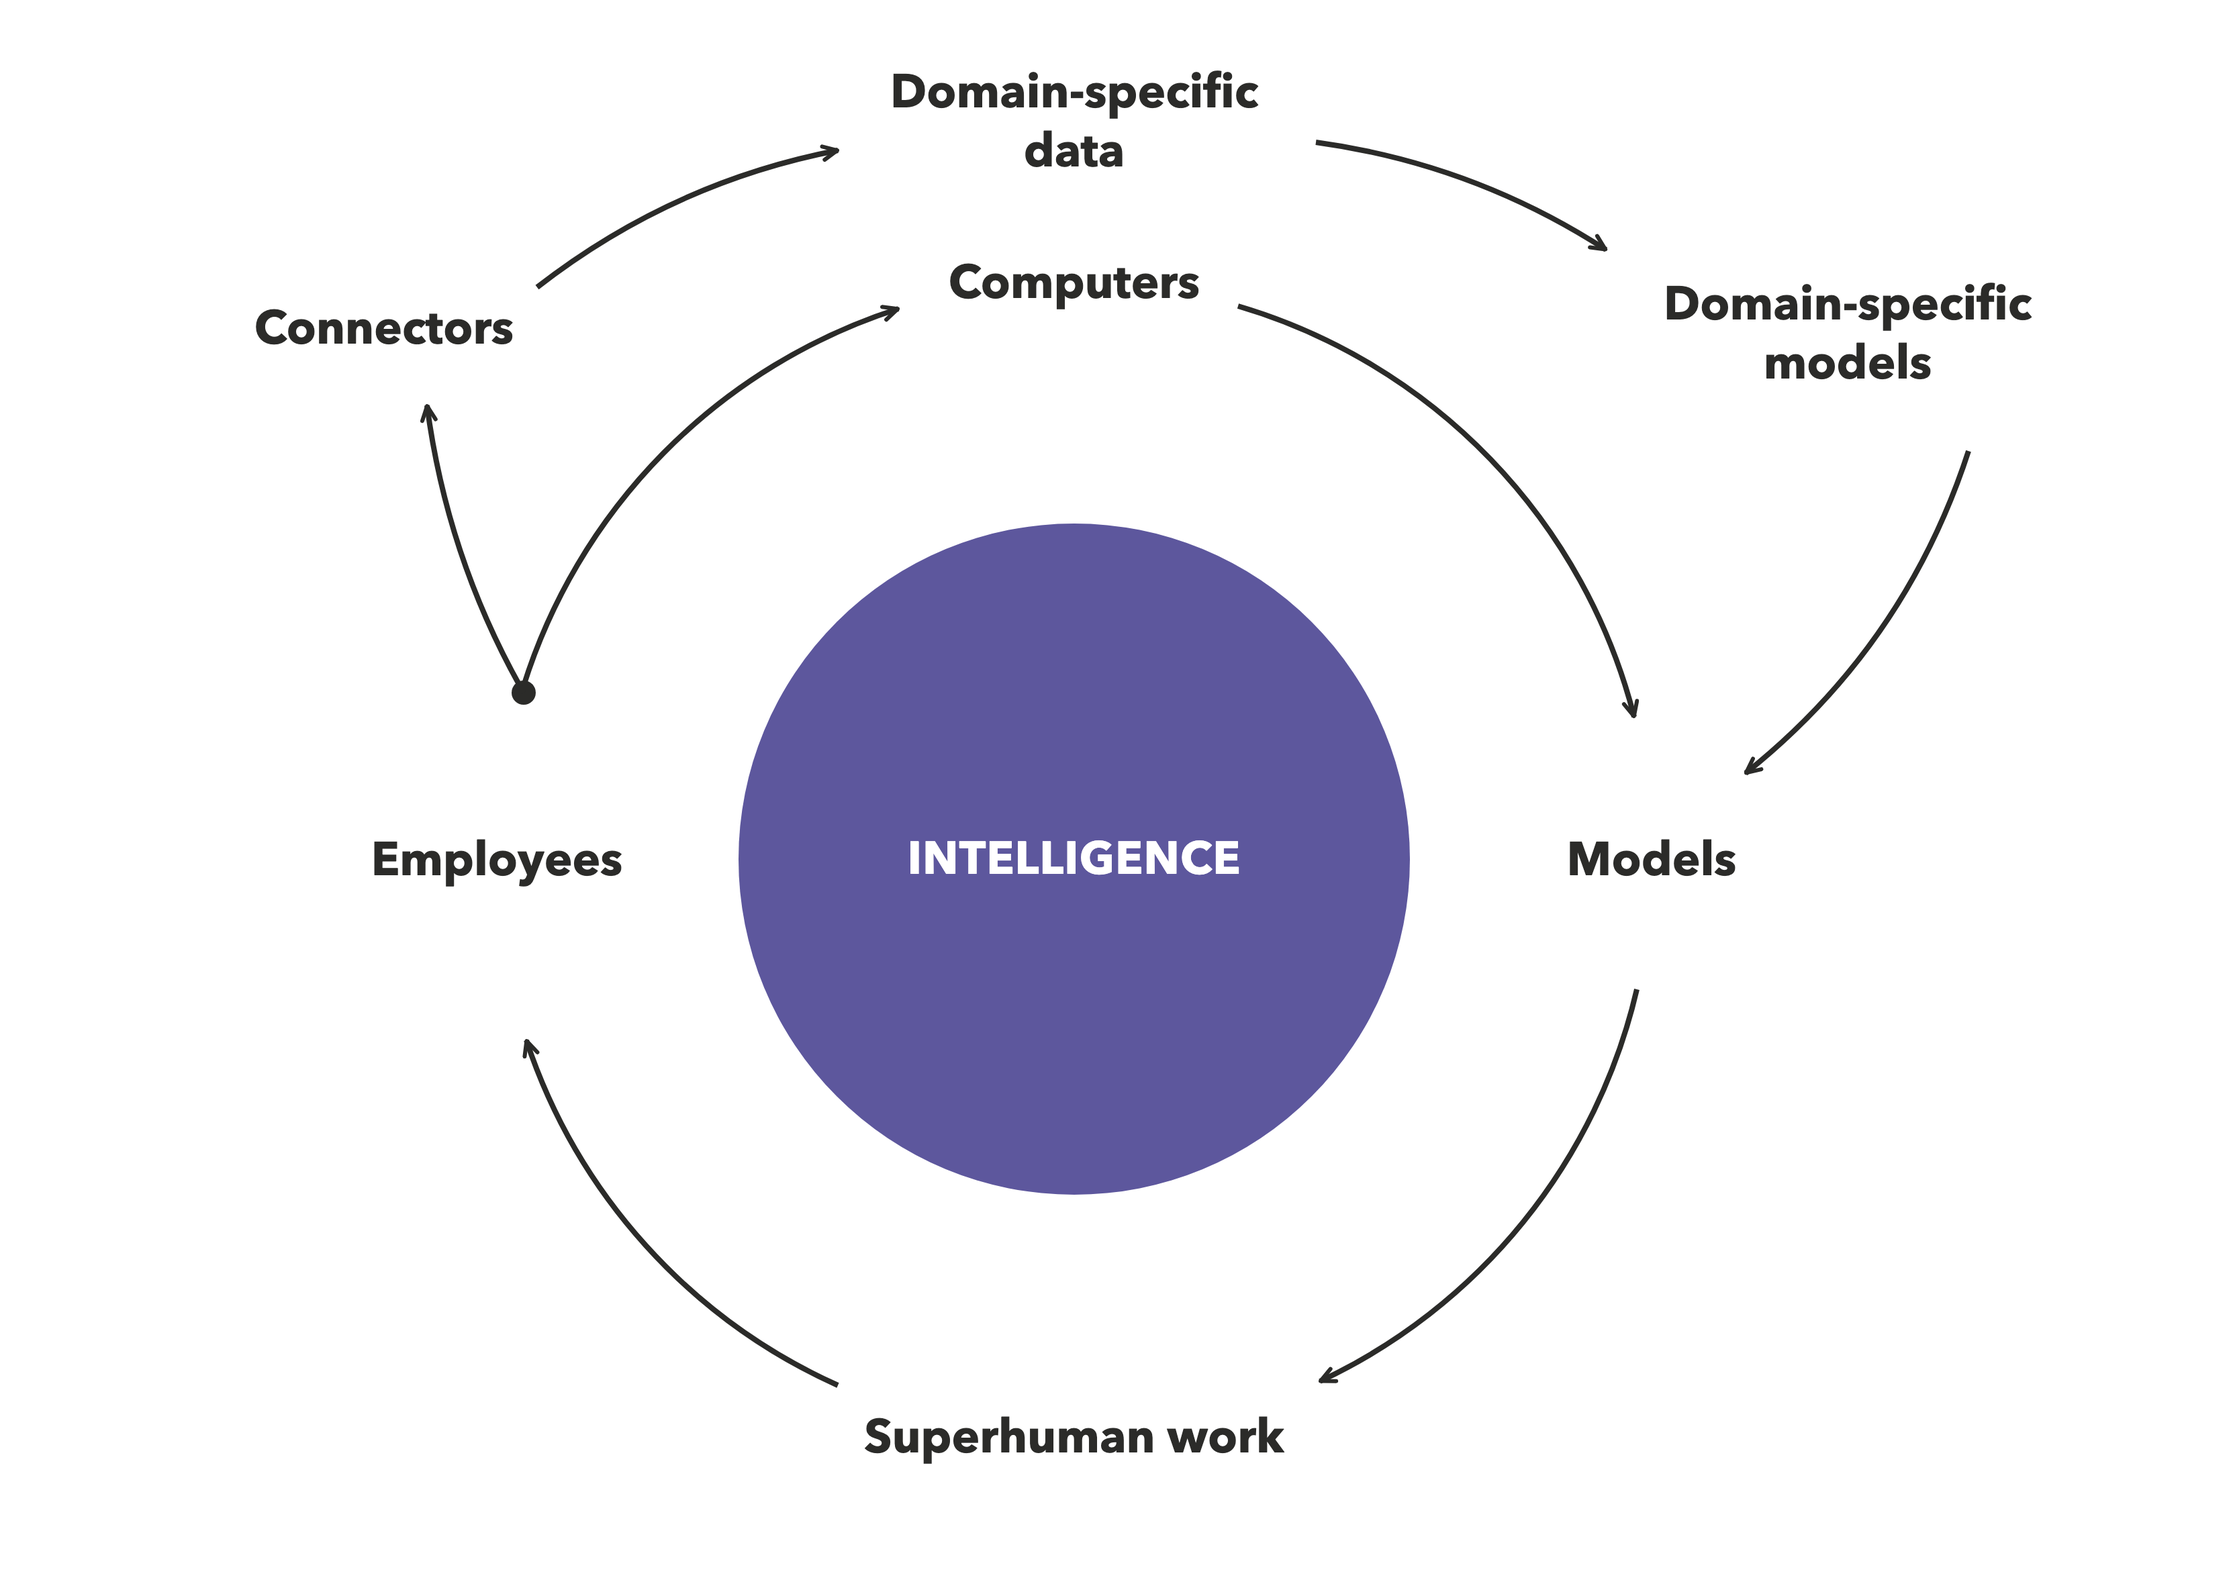
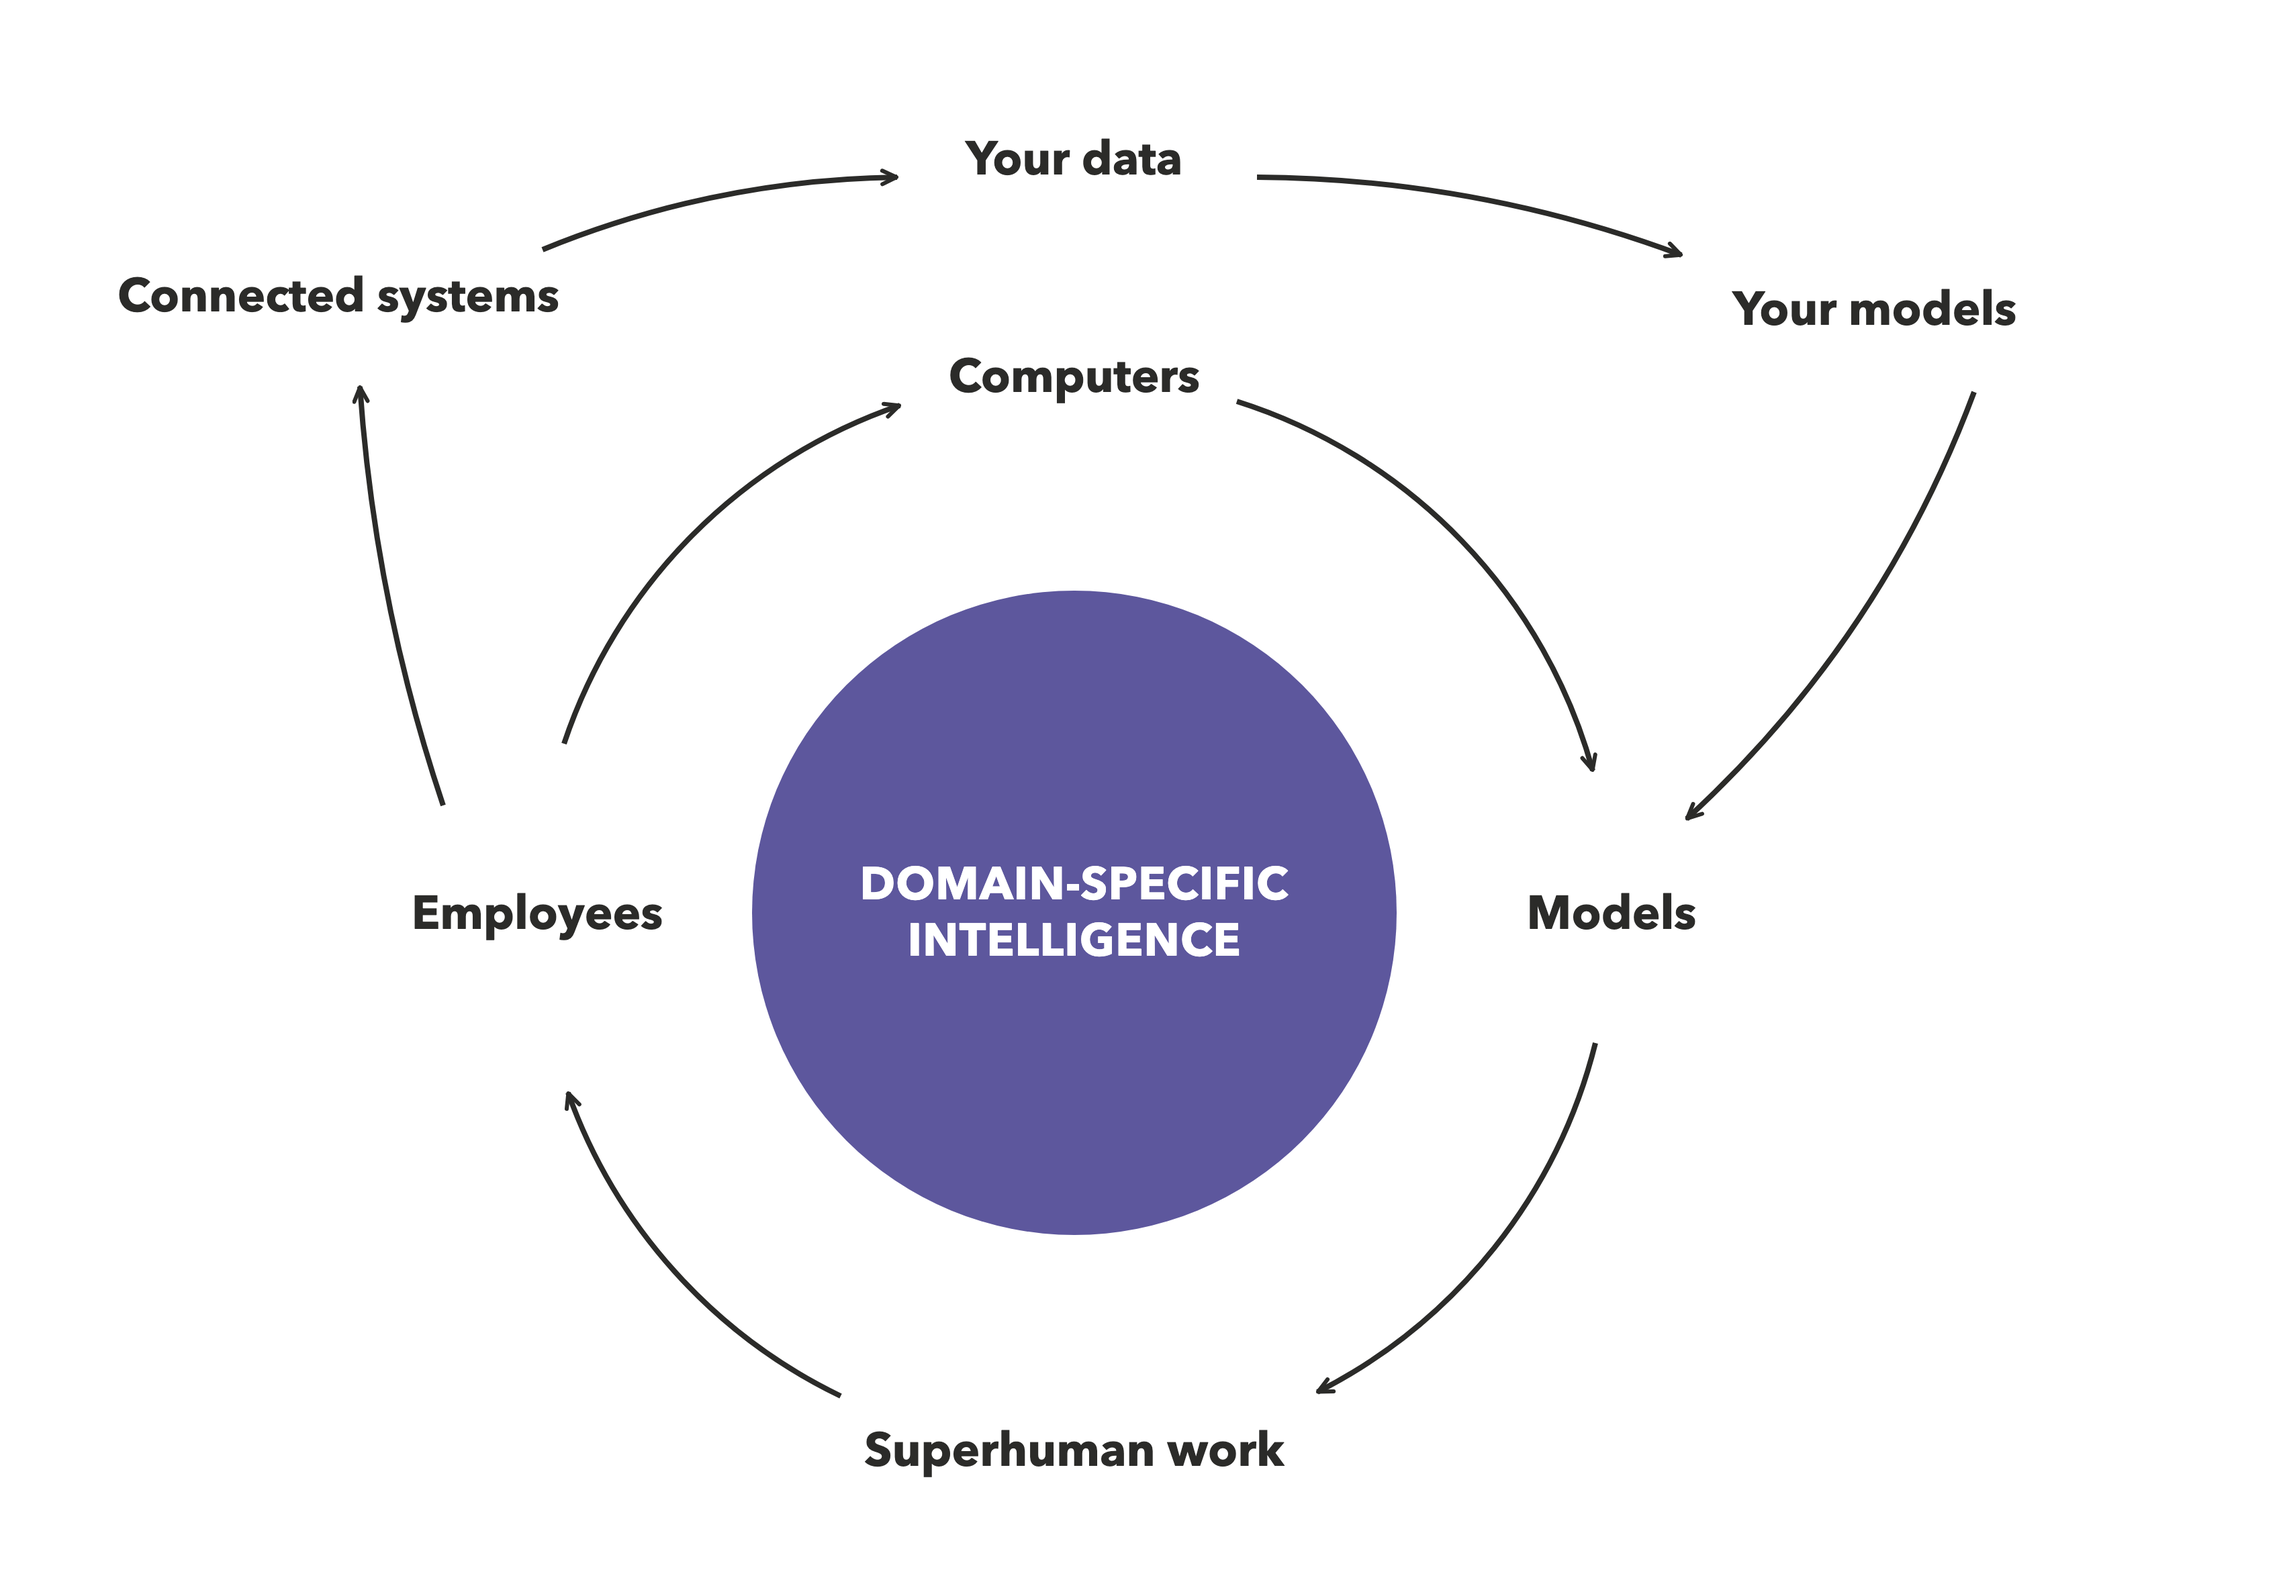
feat(docs): domain-specific intelligence, in the hub and in the opening
The words on the wheel, reviewed one at a time against the test the reference
passes: every station is a noun a reader already knows.

The hub is DOMAIN-SPECIFIC INTELLIGENCE now. It is the asset that actually
compounds — general intelligence you rent, and so does everyone else, so it
accumulates for nobody. And with the qualifier in the centre the two stations
that carried it can drop it: "your data" and "your models" say the same thing in
words nobody has to decode. Three uses of "domain-specific" made the drawing
look like it knew one adjective.

"Connectors" is gone for "Connected systems". It was the only word on the page
that came from integration vocabulary rather than from English, and what it
means — the grid reaching the systems your work already lives in — is two plain
words away.

"Superhuman work" stays. It was raised as a candidate for "Intelligence", but
that station is the reference's Customer Experience: the benefit to the human.
Renaming it would duplicate the hub and delete the only station that says why
any of this matters to a person.

Also: the branch and the rim now leave as two separate arrows with air between
them rather than from a shared dot, which read as a knot at this weight; and the
second loop is held a clear band off the rim, because two curves running close
together read as one thick curve.

The opening gains two paragraphs on why you would train anything at all — the
[…]

diff --git a/train/mlx/grpo_hello.py b/train/mlx/grpo_hello.py
@@ -225,23 +225,35 @@ def main() -> int:
     with log_path.open("a", encoding="utf-8") as fh:
         fh.write(json.dumps(history[0]) + "\n")
 
+    # Where the time actually goes. The premise of putting training on a grid is that sampling
+    # dominates and sampling is the part that fans out; that split is quoted from the field
+    # (README section 3) rather than measured here, and never on this backend at all. Timing the
+    # two phases costs nothing and turns the claim into something each run reports about itself.
+    spent = {"sample_s": 0.0, "update_s": 0.0, "eval_s": 0.0}
+
     for step in range(1, args.steps + 1):
         user_text, target = make_task(rng, args.min_words, args.max_words)
         prompt_ids = encode_prompt(user_text)
         completions, rewards = [], []
+        t0 = time.time()
         for _ in range(args.group_size):
             ids, lps, text = sample(prompt_ids)
             completions.append((ids, lps))
             rewards.append(reward(text, target))
+        spent["sample_s"] += time.time() - t0
         advantages = group_advantages(rewards)
         mean_reward = sum(rewards) / len(rewards)
         record = {"step": step, "reward_mean": round(mean_reward, 4)}
         if any(advantages):
+            t0 = time.time()
             record["loss"] = round(train_step(prompt_ids, completions, advantages), 5)
+            spent["update_s"] += time.time() - t0
         else:
             record["skipped"] = "no reward spread in group"
         if step % args.eval_every == 0 or step == args.steps:
+            t0 = time.time()
             record["eval"] = round(evaluate(), 4)
+            spent["eval_s"] += time.time() - t0
             print(
                 f"step {step:>3}  reward {mean_reward:.3f}  eval {record['eval']:.3f}  "
                 f"({time.time() - started:.0f}s)"
@@ -260,6 +272,13 @@ def main() -> int:
                 "baseline_eval": round(baseline, 4),
                 "final_eval": round(final, 4),
                 "minutes": round((time.time() - started) / 60, 1),
+                "sample_s": round(spent["sample_s"], 1),
+                "update_s": round(spent["update_s"], 1),
+                "eval_s": round(spent["eval_s"], 1),
+                # Of the work that a grid could split, how much is the part that fans out.
+                "sampling_share": round(
+                    spent["sample_s"] / max(spent["sample_s"] + spent["update_s"], 1e-9), 3
+                ),
             },
             indent=2,
         )
@@ -267,6 +286,12 @@ def main() -> int:
         encoding="utf-8",
     )
     print(f"\nBaseline {baseline:.3f} -> final {final:.3f}   artifacts: {run_dir}")
+    print(
+        f"time: sampling {spent['sample_s']:.0f}s · update {spent['update_s']:.0f}s · "
+        f"eval {spent['eval_s']:.0f}s  ->  sampling is "
+        f"{100 * spent['sample_s'] / max(spent['sample_s'] + spent['update_s'], 1e-9):.0f}% "
+        f"of the splittable work"
+    )
     # Ceiling-aware verdict: a strong base model can leave <0.15 of headroom; near-perfect
     # final performance is a pass even when the delta is small.
     verdict = (final - baseline >= 0.15) or (final >= 0.95 and final > baseline)

diff --git a/docs/build_figures.py b/docs/build_figures.py
@@ -235,8 +235,8 @@ f.write(f"{OUT}/train-architecture.svg")
 #   selection -> more models          traffic -> more employees
 #   customer experience -> superhuman work
 #   the second loop: connectors -> domain-specific data -> domain-specific models
-f = Fig(1660, 1180)
-CX, CY, R = 800, 640, 430
+f = Fig(1700, 1180)
+CX, CY, R = 800, 680, 400
 INK = LABEL_TEXT
 
 # Nouns, not quantities. The reference says Sellers, Selection, Traffic — never
@@ -247,22 +247,28 @@ f.wheel(CX, CY, R, [
     ("Superhuman work", LABEL_TEXT),
     ("Employees", LABEL_TEXT),
     ("Computers", LABEL_TEXT),
-], hub_r=250, hub_lines=("INTELLIGENCE",), fs=CORE_FS, start=0, arc=INK)
+], hub_r=240, hub_lines=("DOMAIN-SPECIFIC", "INTELLIGENCE"), fs=CORE_FS, start=0,
+   arc=INK)
 
 # The second loop leaves from Employees — they are the ones who connect a system —
-# runs over the top, and rejoins the wheel at Models, because domain-specific
-# models ARE models. What it bypasses is Computers: this is the way to more
-# models that does not need anyone to buy hardware. The dot sits where the branch
-# and the rim part company, which is what makes a fork read as a fork.
-f.dot(390, 516)
-f.block(286, 244, ("Connectors",), LABEL_TEXT, CORE_FS)
-f.block(800, 90, ("Domain-specific", "data"), LABEL_TEXT, CORE_FS)
-f.block(1376, 248, ("Domain-specific", "models"), LABEL_TEXT, CORE_FS)
+# and rejoins the wheel at Models, because your own models ARE models. The words
+# "domain-specific" appear once, in the hub: three times and the drawing looks
+# like it knows one adjective.
+# What it bypasses is Computers: this is the way to more models that needs nobody
+# to buy hardware.
+#
+# Two things about the drawing. The branch and the rim leave as two separate
+# arrows with air between them rather than from a shared dot: a junction reads as
+# a knot at this line weight. And the whole loop is held a clear band away from
+# the rim, because two curves running close together read as one thick curve.
+f.block(252, 220, ("Connected systems",), LABEL_TEXT, CORE_FS)
+f.block(800, 118, ("Your data",), LABEL_TEXT, CORE_FS)
+f.block(1396, 230, ("Your models",), LABEL_TEXT, CORE_FS)
 
-f.bow(390, 516, 318, 302, lift=-22, colour=INK, width=RIM)
-f.bow(400, 214, 624, 112, lift=-30, colour=INK, width=RIM)
-f.bow(980, 106, 1196, 186, lift=-26, colour=INK, width=RIM)
-f.bow(1466, 336, 1300, 576, lift=-44, colour=INK, width=RIM)
+f.bow(330, 600, 268, 288, lift=-20, colour=INK, width=RIM)
+f.bow(404, 186, 668, 132, lift=-26, colour=INK, width=RIM)
+f.bow(936, 132, 1252, 190, lift=-28, colour=INK, width=RIM)
+f.bow(1470, 292, 1256, 610, lift=-46, colour=INK, width=RIM)
 
 f.write(f"{OUT}/fig-flywheel.svg")
 

diff --git a/train/README.md b/train/README.md
@@ -5,6 +5,17 @@ weights never leave your network. About 8,900 lines of Python across 38 files, o
 torch side and mlx-lm on the Apple side, and one command finishes a complete training run on a
 laptop CPU in about six minutes.
 
+First, why train anything at all. The models you can rent are general and they are very good. They
+also know nothing about you — not your codebase, not last quarter's tickets, not the way your team
+actually writes a reply. Waiting for a bigger general model does not close that gap, because the
+information was never on the internet to begin with. It is sitting in your systems.
+
+Domain-specific intelligence is what is on the other side of that gap: a small model that has seen
+how your work actually goes. It is worse than the frontier at everything and better than the
+frontier at your thing, which is the trade you want, because most of what your team does all day is
+your thing. The weights are yours, so nobody deprecates them, reprices them or swaps them out from
+under you. And the data they learned from never left the building.
+
 Here is the whole idea. Reinforcement learning is roughly 75% sampling; sampling is inference;
 inference is what a grid already does. So the expensive part of training is work your fleet is
 already good at, and the only new thing is one machine that adjusts weights.
@@ -62,6 +73,13 @@ maths, is the hard part of this product. You will spend your time on the grader.
 Count the compute in that step. Writing eight attempts runs the model eight times; adjusting the
 weights happens once. Profiling across the field puts sampling at 70–82% of the total, and sampling
 is plain inference — which a grid already spreads across machines.
+
+Our own runs come out higher. Every run now times its two phases and writes the split into its
+`summary.json`, and on an M2 Max sampling is **86–92%** of the work a grid could divide — 48s of
+sampling against 8s of weight-adjusting on one seed, 92s against 8s on another. Some of that margin
+is ours to give back: the group is sampled one completion at a time, so a batched sampler would
+narrow it. It does mean the case for spreading this across machines is stronger on Apple Silicon
+than the field number suggests, not weaker.
 
 Every machine below is one you own. A grid can also hold frontier API nodes, and for *serving*
 answers that mix is often right: easy work local, hard work out to a vendor. Those nodes cannot
@@ -270,7 +288,7 @@ curl $GRID/v1/feedback -d '{"request_id":"…","verdict":"edited","final_text":"
 ## The flywheel
 
 <p align="center">
-<img src="../docs/fig-flywheel.png" width="820" alt="A flywheel around a filled hub reading INTELLIGENCE. The ring turns clockwise from the top: computers, models, superhuman work, employees, and back to computers. A second loop forks off the wheel at employees and runs over the top — connectors, then domain-specific data, then domain-specific models — before rejoining the wheel at models.">
+<img src="../docs/fig-flywheel.png" width="820" alt="A flywheel around a filled hub reading DOMAIN-SPECIFIC INTELLIGENCE. The ring turns clockwise from the top: computers, models, superhuman work, employees, and back to computers. A second loop forks off the wheel at employees and runs over the top — connected systems, then your data, then your models — before rejoining the wheel at models.">
 </p>
 
 **The ring is the whole business in four words.** Computers run models. Models make the work
@@ -283,7 +301,7 @@ because they are the ones who connect a system — the cheapest thing on this pa
 general model into one that knows your tickets, your repos, your deals. That data is not one undifferentiated pile — it arrives sorted by the job
 that produced it, which is what makes a model *for that job* possible rather than one model asked
 to be good at everything. Those are models too, so the loop rejoins the wheel where models do. What
-it skips is the station that needs someone to buy something.
+it skips is the one station that needs somebody to buy something.
 
 ## The code
 
